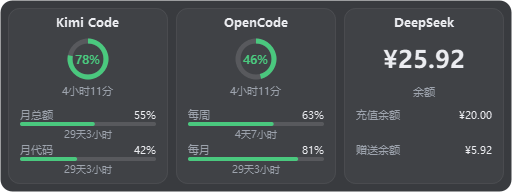
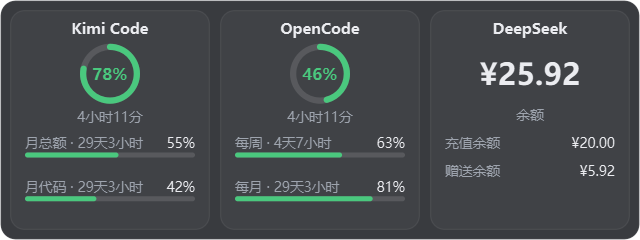
feat: v1.6.0 视觉细化与状态反馈

diff --git a/widget_app/cards.py b/widget_app/cards.py
@@ -6,7 +6,7 @@ import re
 from PySide6.QtCore import QRectF, Qt
 from PySide6.QtGui import QColor, QFont, QFontMetricsF, QPen
 
-from .layout import DETAIL_ROWS, HERO_CY, HERO_LABEL_Y, RING_STATUS_Y, TITLE_Y
+from .layout import DETAIL_START_Y, DETAIL_STEP_BAR, DETAIL_STEP_TEXT, HERO_CY, HERO_LABEL_Y, RING_STATUS_Y, TITLE_Y
 from .quota import format_countdown_dh, format_countdown_hm
 
 COLOR_BG = QColor(20, 22, 27, 215)
@@ -18,8 +18,8 @@ COLOR_GREEN = QColor(74, 200, 126)
 COLOR_YELLOW = QColor(240, 181, 60)
 COLOR_RED = QColor(237, 90, 82)
 COLOR_GRAY = QColor(148, 153, 162)
-COLOR_TIMER = QColor(200, 205, 215, 170)  # 倒计时外环中性色，不占绿黄红语义
-CARD_TIMER_RING_WIDTH = 4.0
+COLOR_TIMER = QColor(200, 205, 215, 120)  # 倒计时外环中性色，不占绿黄红语义
+CARD_TIMER_RING_WIDTH = 2.5
 
 
 CARD_FONT_CACHE = {}
@@ -78,7 +78,7 @@ def hero_font_size(value, available, base_pt):
 
 
 def draw_double_ring(p, cx, cy, r_inner, r_outer, w_inner, remaining,
-                     timer_ratio, color, outer_opacity):
+                     timer_ratio, color, outer_opacity, text_pt=9.0):
     """同心双环：内环=剩余额度（弧长恒定，阈值色），外环=倒计时（中性色，
     透明度=outer_opacity 淡入）。timer_ratio 为距重置的剩余比例
     （None=只画轨道，不伪装成有效倒计时）。"""
@@ -90,28 +90,28 @@ def draw_double_ring(p, cx, cy, r_inner, r_outer, w_inner, remaining,
         p.setOpacity(p.opacity() * outer_opacity)
         p.setBrush(Qt.BrushStyle.NoBrush)
         p.setPen(QPen(COLOR_TRACK, CARD_TIMER_RING_WIDTH,
-                      Qt.PenStyle.SolidLine, Qt.PenCapStyle.FlatCap))
+                      Qt.PenStyle.SolidLine, Qt.PenCapStyle.RoundCap))
         p.drawEllipse(rect_o)
         if timer_ratio is not None:
             span = int(360 * 16 * max(0.0, min(1.0, timer_ratio)))
             if span > 0:
                 p.setPen(QPen(COLOR_TIMER, CARD_TIMER_RING_WIDTH,
-                              Qt.PenStyle.SolidLine, Qt.PenCapStyle.FlatCap))
+                              Qt.PenStyle.SolidLine, Qt.PenCapStyle.RoundCap))
                 p.drawArc(rect_o, 90 * 16, -span)
         p.restore()
 
     p.setBrush(Qt.BrushStyle.NoBrush)
-    p.setPen(QPen(COLOR_TRACK, w_inner, Qt.PenStyle.SolidLine, Qt.PenCapStyle.FlatCap))
+    p.setPen(QPen(COLOR_TRACK, w_inner, Qt.PenStyle.SolidLine, Qt.PenCapStyle.RoundCap))
     p.drawEllipse(rect_i)
     if remaining is not None:
         arc = int(360 * 16 * max(0.0, min(100.0, remaining)) / 100.0)
         if arc > 0:
-            p.setPen(QPen(color, w_inner, Qt.PenStyle.SolidLine, Qt.PenCapStyle.FlatCap))
+            p.setPen(QPen(color, w_inner, Qt.PenStyle.SolidLine, Qt.PenCapStyle.RoundCap))
             p.drawArc(rect_i, 90 * 16, -arc)
 
     text = f"{remaining:.0f}%" if remaining is not None else "—"
     hole = 2 * (r_inner - w_inner / 2.0) - 4
-    p.setFont(center_font(text, hole, 9.0))
+    p.setFont(center_font(text, hole, text_pt))
     p.setPen(QPen(color if remaining is not None else COLOR_GRAY))
     p.drawText(rect_i, Qt.AlignmentFlag.AlignCenter, text)
 
@@ -154,28 +154,32 @@ def service_status(service):
     return ""
 
 
-def _hero(p, rect, metric, center_y, now, ring_color, mini=False):
+def _hero(p, rect, metric, center_y, now, ring_color, mini=False, text_color=COLOR_TEXT):
     if metric and metric.remaining is not None:
         ratio = None
         if metric.reset is not None and metric.window_seconds:
             ratio = (metric.reset - now).total_seconds() / metric.window_seconds
         draw_double_ring(p, rect.center().x(), rect.y() + center_y,
-                         16.0 if mini else 18.0, 23.0, 5.0, metric.remaining,
-                         ratio, ring_color, 1.0 if mini and ratio is not None else 0.0)
+                         16.0 if mini else 21.5, 23.0, 5.0, metric.remaining,
+                         ratio, ring_color, 1.0 if mini and ratio is not None else 0.0,
+                         text_pt=9.0 if mini else 10.0)
     else:
         value = metric_text(metric, now) if metric else "—"
         available = rect.width() - 16
         size = hero_font_size(value, available, 15.0 if mini else 18.0)
         _text(p, QRectF(rect.x() + 8, rect.y() + center_y - 18, available, 36),
-              value, size=size, bold=True, color=COLOR_TEXT)
+              value, size=size, bold=True, color=text_color)
 
 
 def _detail(p, rect, y, metric, now):
     x, width = rect.x() + 12, rect.width() - 24
     value = metric_text(metric, now)
+    label = metric.label
+    if metric.remaining is not None and metric.reset is not None:
+        label = f"{label} · {format_countdown_dh(metric.reset, now)}"
     p.setFont(_card_font(8))
     value_width = min(width * 0.56, p.fontMetrics().horizontalAdvance(value) + 3)
-    _text(p, QRectF(x, rect.y() + y, width - value_width - 6, 13), metric.label,
+    _text(p, QRectF(x, rect.y() + y, width - value_width - 6, 13), label,
           alignment=Qt.AlignmentFlag.AlignLeft)
     _text(p, QRectF(x + width - value_width, rect.y() + y, value_width, 13), value,
           alignment=Qt.AlignmentFlag.AlignRight, color=COLOR_TEXT)
@@ -189,9 +193,6 @@ def _detail(p, rect, y, metric, now):
             fill = QRectF(track)
             fill.setWidth(track.width() * metric.remaining / 100)
             p.drawRoundedRect(fill, 2, 2)
-        if metric.reset is not None:
-            _text(p, QRectF(x, rect.y() + y + 20, width, 13),
-                  format_countdown_dh(metric.reset, now), size=7.5)
 
 
 def mini_caption(hero, status, label):
@@ -200,24 +201,27 @@ def mini_caption(hero, status, label):
 
 
 def draw_service(p, rect, service, now, ring_color, mini=False, offline=False):
-    _chrome(p, rect.adjusted(3, 3, -3, -3) if mini else rect)
+    if not mini:
+        _chrome(p, rect)
     # 迷你卡上服务名只是定位提示，用次级色弱化；展开面板仍是主色。
     _line(p, rect, TITLE_Y, service.name, size=9, bold=True,
           color=COLOR_SUBTLE if mini else COLOR_TEXT)
     status = "数据陈旧" if offline else service_status(service)
+    muted = bool(offline or service.error or service.stale or service.unavailable)
+    text_color = COLOR_GRAY if muted else COLOR_TEXT
     hero = service.hero
     five_hour_ring = bool(hero and hero.remaining is not None and (
         hero.window_seconds == 18000 or re.match(r"^\s*5\s*(?:小时|h(?:ours?|rs?)?(?![a-z]))", hero.label, re.I)
     ))
     label = hero.label if hero and not five_hour_ring else ""
     if mini:
-        _hero(p, rect, hero, 57, now, ring_color, mini=True)
+        _hero(p, rect, hero, 57, now, ring_color, mini=True, text_color=text_color)
         caption, caption_y = mini_caption(hero, status, label)
         if caption:
             _text(p, QRectF(rect.x() + 10, rect.y() + caption_y, rect.width() - 20, 11),
                   caption, size=7)
         return
-    _hero(p, rect, hero, HERO_CY, now, ring_color)
+    _hero(p, rect, hero, HERO_CY, now, ring_color, text_color=text_color)
     if hero and hero.remaining is not None and hero.reset is not None and not status:
         formatter = format_countdown_hm if five_hour_ring else format_countdown_dh
         status = formatter(hero.reset, now)
@@ -234,8 +238,10 @@ def draw_service(p, rect, service, now, ring_color, mini=False, offline=False):
             _line(p, rect, HERO_LABEL_Y, label)
     if status:
         _line(p, rect, RING_STATUS_Y, status)
-    for y, metric in zip(DETAIL_ROWS, service.details):
+    y = DETAIL_START_Y
+    for metric in service.details:
         _detail(p, rect, y, metric, now)
+        y += DETAIL_STEP_BAR if metric.remaining is not None else DETAIL_STEP_TEXT
 
 
 def draw_empty(p, rect, text):

diff --git a/widget_app/widget.py b/widget_app/widget.py
@@ -6,7 +6,7 @@ import threading
 import time
 import webbrowser
 from datetime import datetime, timezone
-from PySide6.QtCore import QEasingCurve, QEvent, QRect, QRectF, Qt, QTimer, QVariantAnimation, Signal
+from PySide6.QtCore import QEasingCurve, QEvent, QLineF, QRect, QRectF, Qt, QTimer, QVariantAnimation, Signal
 from PySide6.QtGui import QColor, QCursor, QPainter, QPainterPath
 from PySide6.QtWidgets import QApplication, QMenu, QMessageBox, QWidget
 
@@ -52,6 +52,7 @@ class QuotaWidget(QWidget):
         self._active = set()
         self._last_error = ""
         self._credential_warning = ""
+        self._last_update_at = None
         self._fetch_inflight = False
         self._manual_pending = False
         self._snapshot_loaded = False
@@ -120,6 +121,7 @@ class QuotaWidget(QWidget):
             self._manual_pending |= manual
             return
         self._fetch_inflight = True
+        self.update()
         client = self._client
         panel, _ = self._selection()
         targets = [i for i in panel if manual or i in self._active]
@@ -142,6 +144,7 @@ class QuotaWidget(QWidget):
         before = self._selection()
         self._services = merge_services(result, self._services)
         self._last_error = ""
+        self._last_update_at = datetime.now(timezone.utc).astimezone()
         self._snapshot_loaded = True
         scope = self._scope()
         if result and self._cfg["legacy_service_scope"] == scope:
@@ -322,14 +325,26 @@ class QuotaWidget(QWidget):
         bounds = QRectF(0.5, 0.5, self.width() - 1, self.height() - 1)
         path = QPainterPath()
         path.addRoundedRect(bounds, 12, 12)
-        painter.fillPath(path, cards.COLOR_BG)
+        background = QColor(cards.COLOR_BG)
+        opacity = self._cfg.get("background_opacity", 100)
+        background.setAlpha(max(0, min(255, int(cards.COLOR_BG.alpha() * opacity / 100))))
+        painter.fillPath(path, background)
+        painter.setBrush(Qt.BrushStyle.NoBrush)
+        painter.setPen(QColor(255, 255, 255, 28))
+        painter.drawPath(path)
         painter.setClipPath(path)
         panel, mini = self._selection()
         now = datetime.now(timezone.utc).astimezone()
-        if self._t < 0.999:
-            self._paint_layer(painter, self._grid(False, self._geo()), panel, now, False, 1 - self._t)
-        if self._t > 0.001:
-            self._paint_layer(painter, self._grid(True, self._geo()), mini, now, True, self._t)
+        old_alpha = max(0.0, 1.0 - self._t / 0.4)
+        new_alpha = max(0.0, (self._t - 0.4) / 0.6)
+        if old_alpha > 0.001:
+            self._paint_layer(painter, self._grid(False, self._geo()), panel, now, False, old_alpha)
+        if new_alpha > 0.001:
+            self._paint_layer(painter, self._grid(True, self._geo()), mini, now, True, new_alpha)
+        if self._fetch_inflight:
+            painter.setPen(Qt.PenStyle.NoPen)
+            painter.setBrush(QColor(120, 200, 255, 190))
+            painter.drawEllipse(QRectF(self.width() - 12, 6, 4, 4))
 
     def _paint_layer(self, painter, grid, ids, now, mini, alpha):
         painter.save()
@@ -347,6 +362,15 @@ class QuotaWidget(QWidget):
                 service = self._services[service_id]
                 cards.draw_service(painter, QRectF(cell.x, top, cell.width, cell.height), service, now,
                                    self._ring_color(service), mini=mini, offline=bool(self._last_error))
+        if mini and len(ids) > 1:
+            first, second = grid.cards[0], grid.cards[1]
+            painter.setPen(QColor(255, 255, 255, 32))
+            if second.x > first.x:
+                x = second.x
+                painter.drawLine(QLineF(x + 0.5, 14, x + 0.5, grid.height - 14))
+            else:
+                y = second.y
+                painter.drawLine(QLineF(14, y + 0.5, grid.width - 14, y + 0.5))
         if not mini and grid.max_scroll:
             track_height = grid.height - 16
             thumb_height = max(18, track_height * grid.height / grid.content_height)
@@ -424,6 +448,13 @@ class QuotaWidget(QWidget):
         menu = QMenu(self)
         self._menu = menu
         menu.installEventFilter(self)
+        if self._last_update_at is None:
+            info = menu.addAction("尚未取得数据")
+        else:
+            mode = "活动档 1 分钟" if self._active else "缓存档 3 分钟"
+            info = menu.addAction(f"已更新于 {self._last_update_at:%H:%M} · {mode}")
+        info.setEnabled(False)
+        menu.addSeparator()
         menu.addAction("立即刷新", lambda: self.refresh(manual=True))
         menu.addAction("取消贴边" if self._snap_edge else "贴边收起", self._toggle_snap)
         for label, checked, handler in (
@@ -434,6 +465,12 @@ class QuotaWidget(QWidget):
             action.setCheckable(True)
             action.setChecked(checked)
             action.triggered.connect(handler)
+        opacity = menu.addMenu("背景不透明度")
+        for value in (100, 95, 85, 70):
+            action = opacity.addAction(f"{value}%")
+            action.setCheckable(True)
+            action.setChecked(self._cfg.get("background_opacity", 100) == value)
+            action.triggered.connect(lambda _checked, v=value: self._set_opacity(v))
         menu.addAction("设置…", lambda: QTimer.singleShot(0, self.show_settings))
         if self._error_details():
             menu.addAction("错误详情…", lambda: QTimer.singleShot(0, self.show_errors))
@@ -509,6 +546,11 @@ class QuotaWidget(QWidget):
             self._settle_floating(geo)
         else:
             self._snap(nearest_edge(_rect(self.frameGeometry()), geo), geo)
+
+    def _set_opacity(self, value):
+        self._cfg["background_opacity"] = value
+        self._persist()
+        self.update()
 
     def _toggle_blink(self, checked):
         self._blink_enabled = checked
@@ -599,6 +641,7 @@ class QuotaWidget(QWidget):
                 self._services = {}
                 self._snapshot_loaded = False
                 self._last_error = ""
+                self._last_update_at = None
             self.refresh()
         else:
             panel, _ = self._selection()

diff --git a/tests/test_widget_geometry.py b/tests/test_widget_geometry.py
@@ -307,7 +307,7 @@ class TestWidget(unittest.TestCase):
         with patch.object(config, "save_config") as save:
             self.widget.contextMenuEvent(event)
             menu = self.widget._menu
-            cancel = menu.actions()[1]
+            cancel = next(a for a in menu.actions() if a.text() in ("取消贴边", "贴边收起"))
             target = menu.actionGeometry(cancel).center()
             QTest.mouseClick(menu, Qt.MouseButton.RightButton, pos=target)
             self.assertEqual(self.widget._snap_edge, "right")
@@ -315,6 +315,24 @@ class TestWidget(unittest.TestCase):
             QTest.mouseClick(menu, Qt.MouseButton.LeftButton, pos=target)
             self.assertEqual(self.widget._snap_edge, "")
             self.assertEqual(save.call_args.args[0]["snap_edge"], "")
+
+    def test_menu_shows_update_state_and_sets_opacity(self):
+        from datetime import datetime, timezone
+        self.widget._last_update_at = datetime.now(timezone.utc).astimezone()
+        self.widget._active = {1}
+        pos = QPoint(10, 10)
+        event = QContextMenuEvent(QContextMenuEvent.Reason.Mouse, pos, self.widget.mapToGlobal(pos))
+        with patch.object(config, "save_config") as save:
+            self.widget.contextMenuEvent(event)
+            menu = self.widget._menu
+            info = next(a for a in menu.actions() if a.text().startswith("已更新于"))
+            self.assertIn("活动档 1 分钟", info.text())
+            self.assertFalse(info.isEnabled())
+            opacity_menu = next(a.menu() for a in menu.actions() if a.text() == "背景不透明度")
+            action = next(a for a in opacity_menu.actions() if a.text() == "70%")
+            action.trigger()
+            save.assert_called_once()
+        self.assertEqual(self.widget._cfg["background_opacity"], 70)
 
     def test_drop_at_bottom_prefers_pointer_over_overhanging_side(self):
         from widget_app.layout import Rect

diff --git a/widget_app/config.py b/widget_app/config.py
@@ -42,6 +42,7 @@ DEFAULTS = {
     "window_y": None,
     "snap_edge": "",        # 贴边收起："" | top | bottom | left | right
     "blink_enabled": True,  # 低额度（5h 剩余 <10%）时收起卡闪烁提醒
+    "background_opacity": 100,  # 背景不透明度档位（70–100）
     "allow_insecure_http": False,  # 非回环 HTTP 需用户显式允许（明文传输）
     "service_preferences": {},
     "legacy_service_scope": "",
@@ -139,6 +140,9 @@ def load_config() -> dict:
             cfg[key] = DEFAULTS[key]
     if not isinstance(cfg.get("allow_insecure_http"), bool):
         cfg["allow_insecure_http"] = False
+    opacity = cfg.get("background_opacity")
+    if type(opacity) is not int or not 70 <= opacity <= 100:
+        cfg["background_opacity"] = 100
     if "service_preferences" not in raw and isinstance(raw.get("username"), str) and raw["username"]:
         cfg["legacy_service_scope"] = credential_scope(cfg["server_url"], raw["username"])
     cfg["service_preferences"] = _clean_preferences(cfg["service_preferences"])

diff --git a/widget_app/layout.py b/widget_app/layout.py
@@ -6,8 +6,11 @@ CARD_W, CARD_H = 160, 176
 CARD_CELL_SIZE = 96
 GAP, MARGIN = 8, 8
 TITLE_Y, HERO_CY, HERO_LABEL_Y, STATUS_Y = 7, 51, 76, 90
-RING_STATUS_Y = 75
-DETAIL_ROWS = (100, 135)
+RING_STATUS_Y = 78
+DETAIL_START_Y = 100
+DETAIL_STEP_BAR = 35
+DETAIL_STEP_TEXT = 22
+DETAIL_ROWS = (DETAIL_START_Y, DETAIL_START_Y + DETAIL_STEP_BAR)
 VERTICAL_EDGES = ("left", "right")
 EDGES = ("top", "bottom", *VERTICAL_EDGES)
 

diff --git a/README.md b/README.md
@@ -23,6 +23,8 @@ Windows 桌面常驻小组件：始终置顶，展示所选服务的额度、余
 - **按服务刷新**：空闲每 3 分钟读缓存，额度有变化时每分钟强刷对应服务，
   连续三次无变化退出活动档。「立即刷新」仅强刷已选服务。
 - **低额度提醒**：剩余 <10% 时额度环闪烁，可在右键菜单关闭。
+- **状态提示**：刷新中右上角显示小蓝点；右键菜单顶部显示最近更新时间和当前轮询档位，
+  并可切换背景不透明度（100/95/85/70）。
 - **单实例**：开机自启已在运行时，再次启动只提示“已在运行”，不会出现第二套卡片。
 - **连接安全**：`localhost`、`127.0.0.1`、`::1` 的 HTTP 直接允许；其他 HTTP 地址
   保存设置时需勾选「允许不安全的 HTTP」，密码和 token 会明文传输。建议通过
@@ -72,7 +74,7 @@ python main.py
 
 - 按住拖动悬浮窗；松手时距屏幕边缘 10px 内自动吸附收起。
 - 右键菜单：立即刷新 / 贴边收起⇄取消贴边 / 低额度闪烁提醒 / 开机自启（HKCU Run）/
-  设置 / 打开 OpenUsage 面板 / 退出。
+  背景不透明度 / 设置 / 打开 OpenUsage 面板 / 退出。
 - 打包发布：`pip install pyinstaller` 后
   `python -m PyInstaller --clean --noconfirm KimiQuotaWidget.spec`，
   产物在 `dist/KimiQuotaWidget.exe`。
